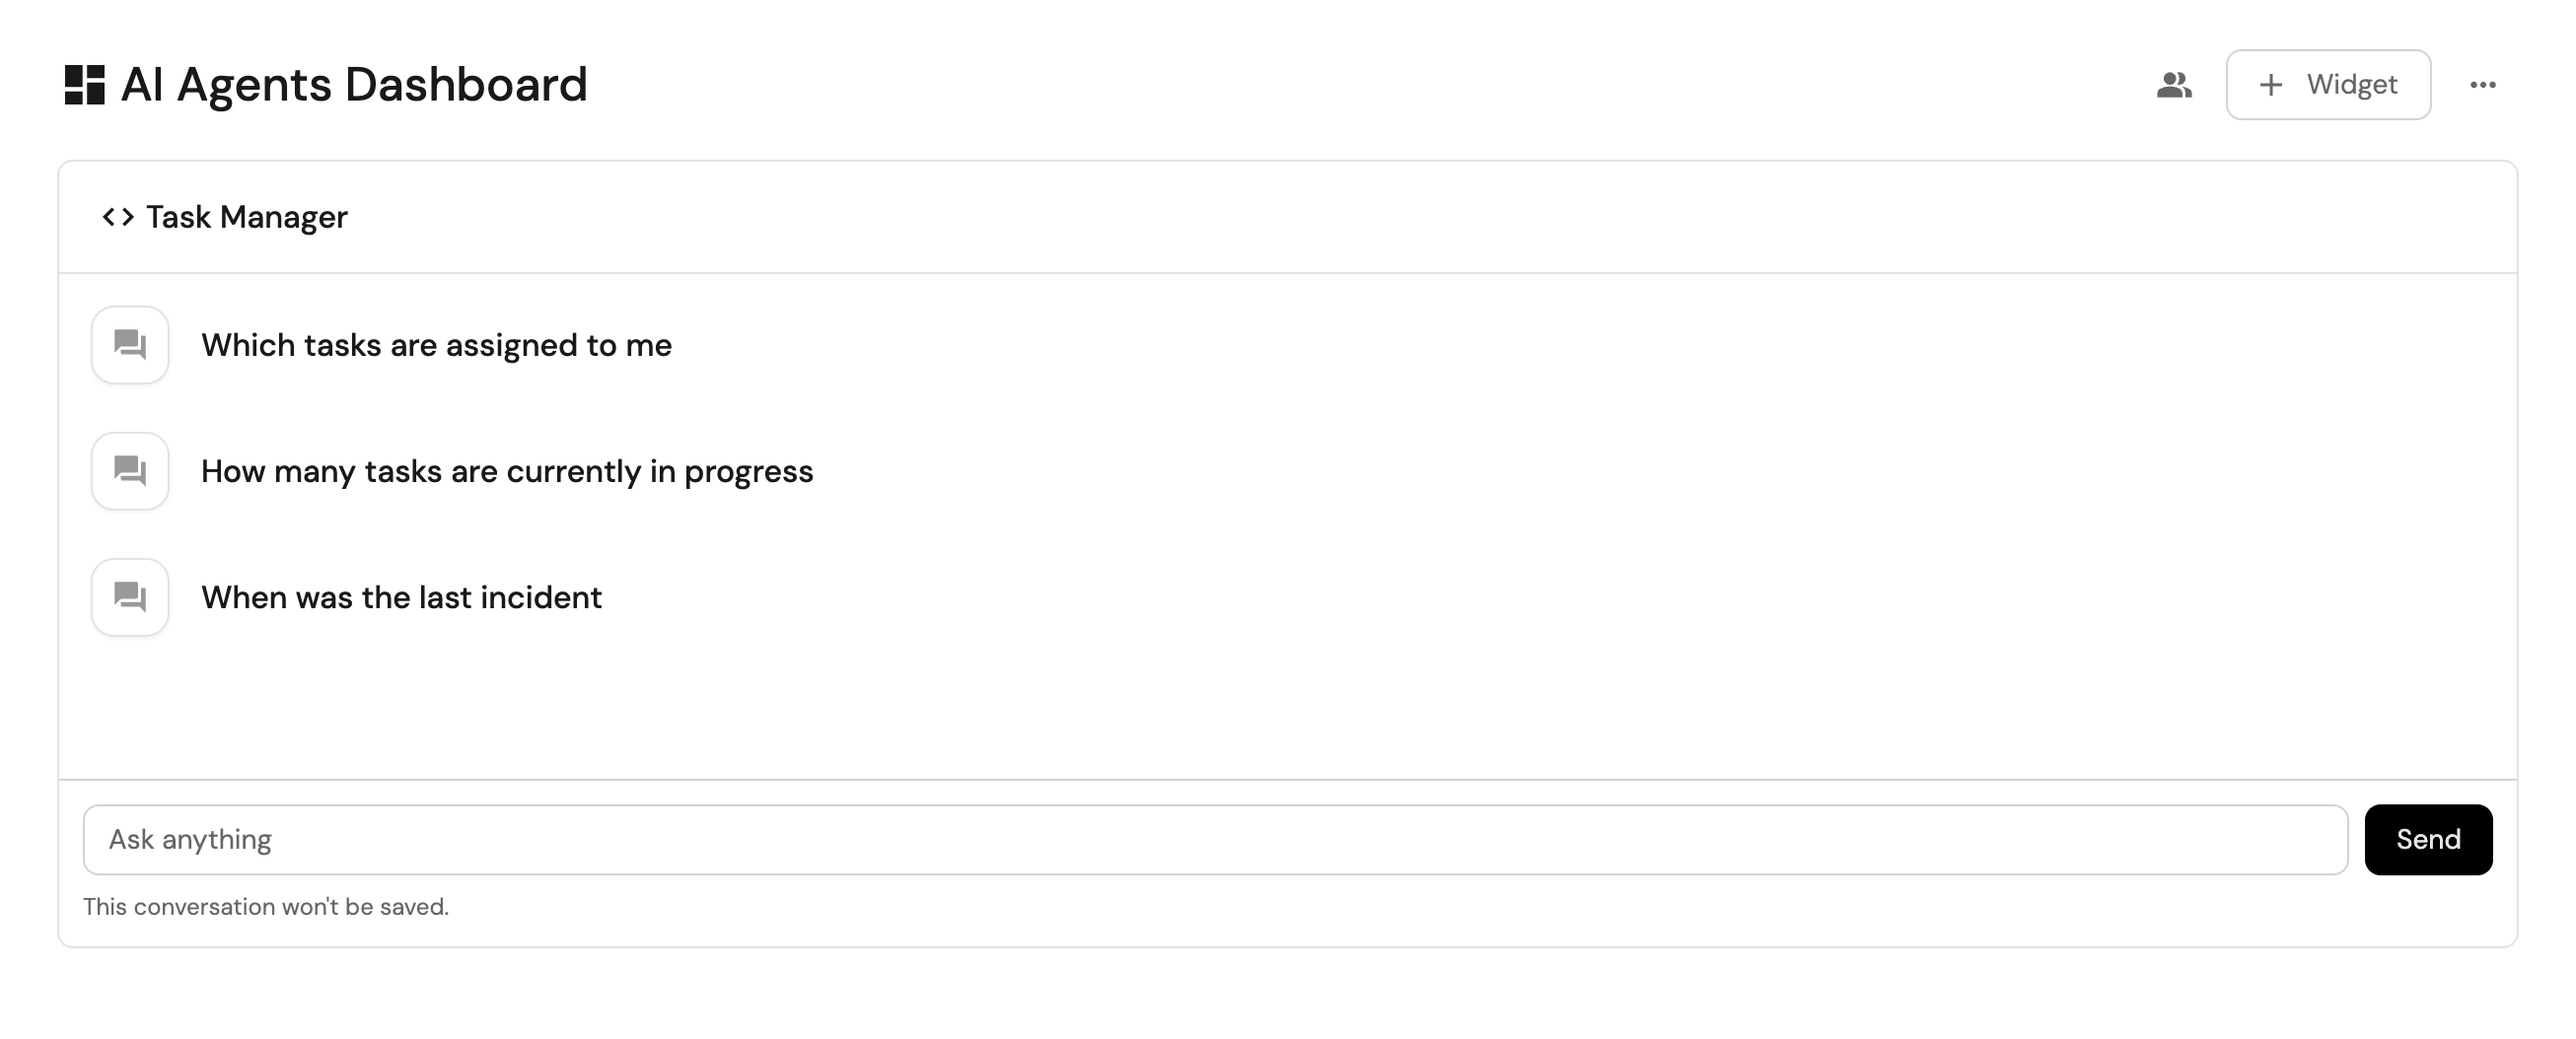
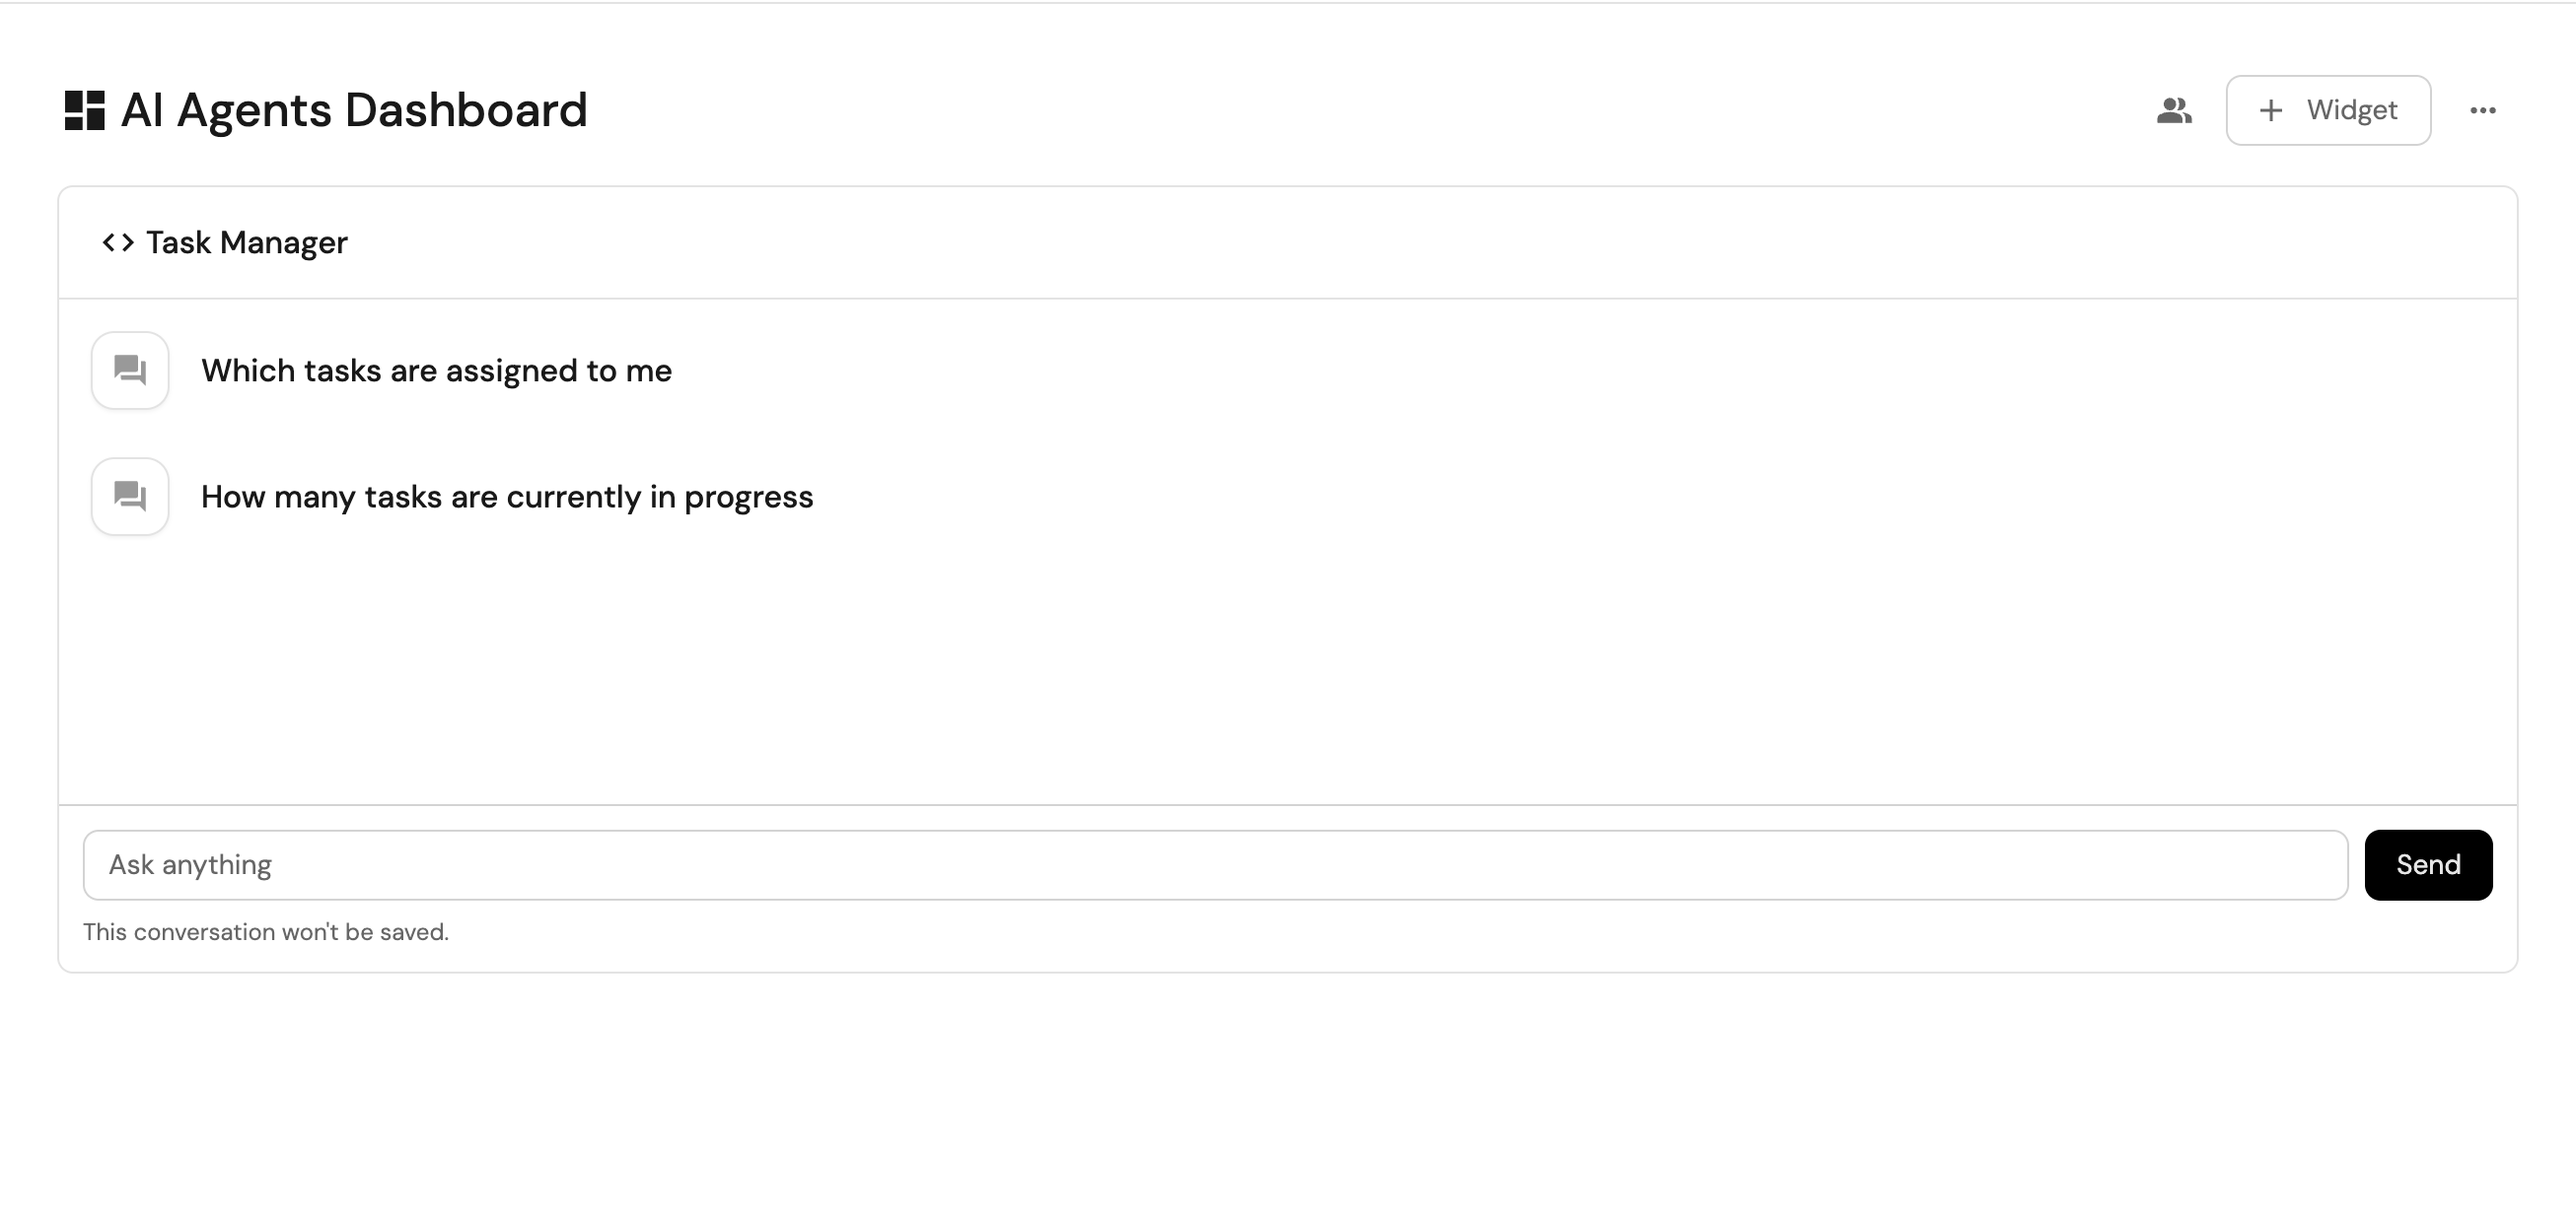
Enhance Task Manager AI agent setup guide with clearer instructions and additional data source options

diff --git a/docs/guides/all/setup-task-manager-ai-agent.md b/docs/guides/all/setup-task-manager-ai-agent.md
@@ -11,27 +11,45 @@ import TabItem from "@theme/TabItem"
 ## Overview
 
 This guide will walk you through setting up a Task Manager AI agent in Port.
+By the end of this guide, your developers will be able to get clear overview on their tasks through our AI chat.
 
+<img src="/img/ai-agents/AIAgentTaskMangerAgentPage.png" width="100%" border="1px" />
 
 ## Common use cases
 
 - Get a quick overview of assigned tasks and their priorities
-- Track ongoing incidents and their status
 - Monitor pull requests waiting for review
-- Stay informed about on-call schedules and team responsibilities
+- Track task progress and status updates
 
 ## Prerequisites
 
 This guide assumes you have:
-- A Port account with AI agents feature enabled
+- A Port account with [AI agents feature enabled](/ai-agents/overview#access-to-the-feature)
 - Appropriate permissions to create and configure AI agents
-
 
 ## Set up data model
 
-To create a Task Manager AI agent in Port, we'll need to configure two main components:
+To create a Task Manager AI agent in Port, we'll need to configure two main components as described in our [Build an AI agent](/ai-agents/build-an-ai-agent) guide:
+-  The data sources it will use to answer questions about tasks and pull requests
 -  The agent configuration that defines its capabilities and conversation starters
--  The data sources it will use to answer questions about tasks, incidents, and pull requests
+
+
+### Configure data source access
+
+For this guide, we will be using **GitHub** and **Jira** as our data sources to provide comprehensive task management capabilities. 
+These integrations will automatically create and configure all the necessary resources needed by the Task Manager AI agent.
+
+Install the following integrations to have use these data sources:
+- [Port's GitHub app](/build-your-software-catalog/sync-data-to-catalog/git/github/) for pull requests and code changes
+- [Jira integration](/build-your-software-catalog/sync-data-to-catalog/project-management/jira/) for task and issue tracking
+
+:::info Optional tools
+While this guide uses GitHub and Jira, you can choose tools that best fit your organization's needs. 
+For example:
+- GitLab or Azure DevOps instead of GitHub
+- Opsgenie instead of PagerDuty
+:::
+
 
 ### Create the agent configuration
 
@@ -52,21 +70,18 @@ To create a Task Manager AI agent in Port, we'll need to configure two main comp
        "description": "Helps developers manage their ongoing tasks",
        "status": "active",
        "allowed_blueprints": [
-         "pagerdutyService",
          "service",
          "_user",
          "jiraIssue",
-         "pagerdutyIncident",
          "githubPullRequest",
-         "_team",
-         "pagerdutyOncall"
+         "_team"
        ],
-       "prompt": "You are an expert in managing tasks and helping developers remain in flow state. You can answer questions around priorities, tasks, bugs and incidents.",
+       "prompt":"You are an expert in managing tasks and helping developers remain in a flow state. You can answer questions around priorities and ongoing tasks",
        "execution_mode": "Approval Required",
        "conversation_starters": [
          "Which tasks are assigned to me",
          "How many tasks are currently in progress",
-         "When was the last incident"
+         "Which PRs should I review?"
        ]
      }
    }
@@ -75,19 +90,11 @@ To create a Task Manager AI agent in Port, we'll need to configure two main comp
 
 5. Click on `Create` to save the agent
 
-### Configure data source access
-
-For this guide, we will be using **GitHub**, **Jira**, and **PagerDuty** as our data sources to provide comprehensive task management capabilities. These integrations will automatically create and configure all the necessary resources needed by the Task Manager AI agent.
-
-Install the following integrations to have use these data sources:
-- [Port's GitHub app](/build-your-software-catalog/sync-data-to-catalog/git/github/) for pull requests and code changes
-- [Jira integration](/build-your-software-catalog/sync-data-to-catalog/project-management/jira/) for task and issue tracking
-- [PagerDuty integration](/build-your-software-catalog/sync-data-to-catalog/incident-management/pagerduty/) for incident management
 
 ## Interact with the Task Manager
 
-You can interact with the task manager AI agent in several ways.  
-But in this guide we will demonstrate two ways to interact with the agent.
+You can interact with the task manager AI agent in [several ways](/ai-agents/interact-with-the-ai-agent).  
+This guide will demonstrate the two main ways.
 
 <Tabs groupId="interaction-methods" queryString>
 <TabItem value="ui" label="Port UI">
@@ -114,11 +121,10 @@ Once the widget is set up, you can:
 - Use the conversation starter buttons to quickly check:
   - Your assigned tasks
   - Work in progress
-  - Recent incidents
+  - Pull requests needing review
 
 - Type custom questions in the chat field about:
   - Tasks and tickets
-  - Incidents
   - Pull requests
 
 - Engage in natural follow-up conversations to explore specific topics
@@ -141,17 +147,16 @@ When you send a message, the app will:
 Example queries:
 ```markdown
 @Port task-manager What tasks are assigned to me?
-@Port task-manager How many critical incidents occurred this week?
-@Port task-manager Show me all PRs waiting for my review
+@Port Show me all PRs waiting for my review
+@Port How many tasks are currently in progress?
 ```
 
-:::tip  Effective Slack interactions
-- Always include "task-manager" in your message to target this specific agent
-- Send follow-up messages in the same thread and mention the app again
-- Keep conversations focused on task-related topics
-- Limit threads to five consecutive messages for optimal performance
-- Start new threads for new topics or questions
+:::tip Including the agent name
+While including "task-manager" in your message can help when you have multiple agents, it's not mandatory.   
+The Slack app is smart enough to route your request to the appropriate agent based on the context.
 :::
+
+<img src="/img/ai-agents/AIAgentTaskManagerSlack.png" width="100%" border="1px" />
 
 
 </TabItem>
@@ -161,16 +166,14 @@ Example queries:
 
 To get the most out of your Task Manager agent:
 
-1. **Be specific in your queries**: Instead of asking "what are my tasks?", try "what are my high-priority Jira tickets?"
-2. **Use context**: Include relevant information like time periods or specific services
-3. **Follow up**: Use threaded conversations to drill down into specific details
-4. **Combine sources**: Ask questions that combine information from different systems
+1. **Try it out**: Start with simple queries and see how the agent responds
+2. **Add context**: If the response isn't what you expected, try asking again with more details
+3. **Troubleshoot**: If you're still not getting the right answers, check our [troubleshooting guide](/ai-agents/interact-with-the-ai-agent#troubleshooting--faq) for common issues and solutions
 
 ## Possible enhancements
 
 You can further enhance the Task Manager setup by:
-- **Custom metrics**: Add widgets showing task completion rates and average resolution times
-- **Team views**: Create team-specific dashboards with filtered task views
-- **Integration expansion**: Add more data sources like GitLab or Azure DevOps
-- **Automated notifications**: Configure the agent to proactively notify about important updates
-- **Custom conversation starters**: Add organization-specific queries to the conversation starters 
+- **Integration expansion**: [Add more data sources](/ai-agents/build-an-ai-agent#step-2-configure-data-access) like GitLab or Azure DevOps
+- **Automated notifications**: [Configure the agent](/ai-agents/interact-with-the-ai-agent#actions-and-automations) to proactively notify about important updates
+- **Custom conversation starters**: Add organization-specific queries to the [conversation starters](/ai-agents/build-an-ai-agent#step-5-add-conversation-starters)
+- **Monitor and improve**: [Check how your developers are interacting](/ai-agents/interact-with-the-ai-agent#ai-interaction-details) with the agent and improve it according to feedback
